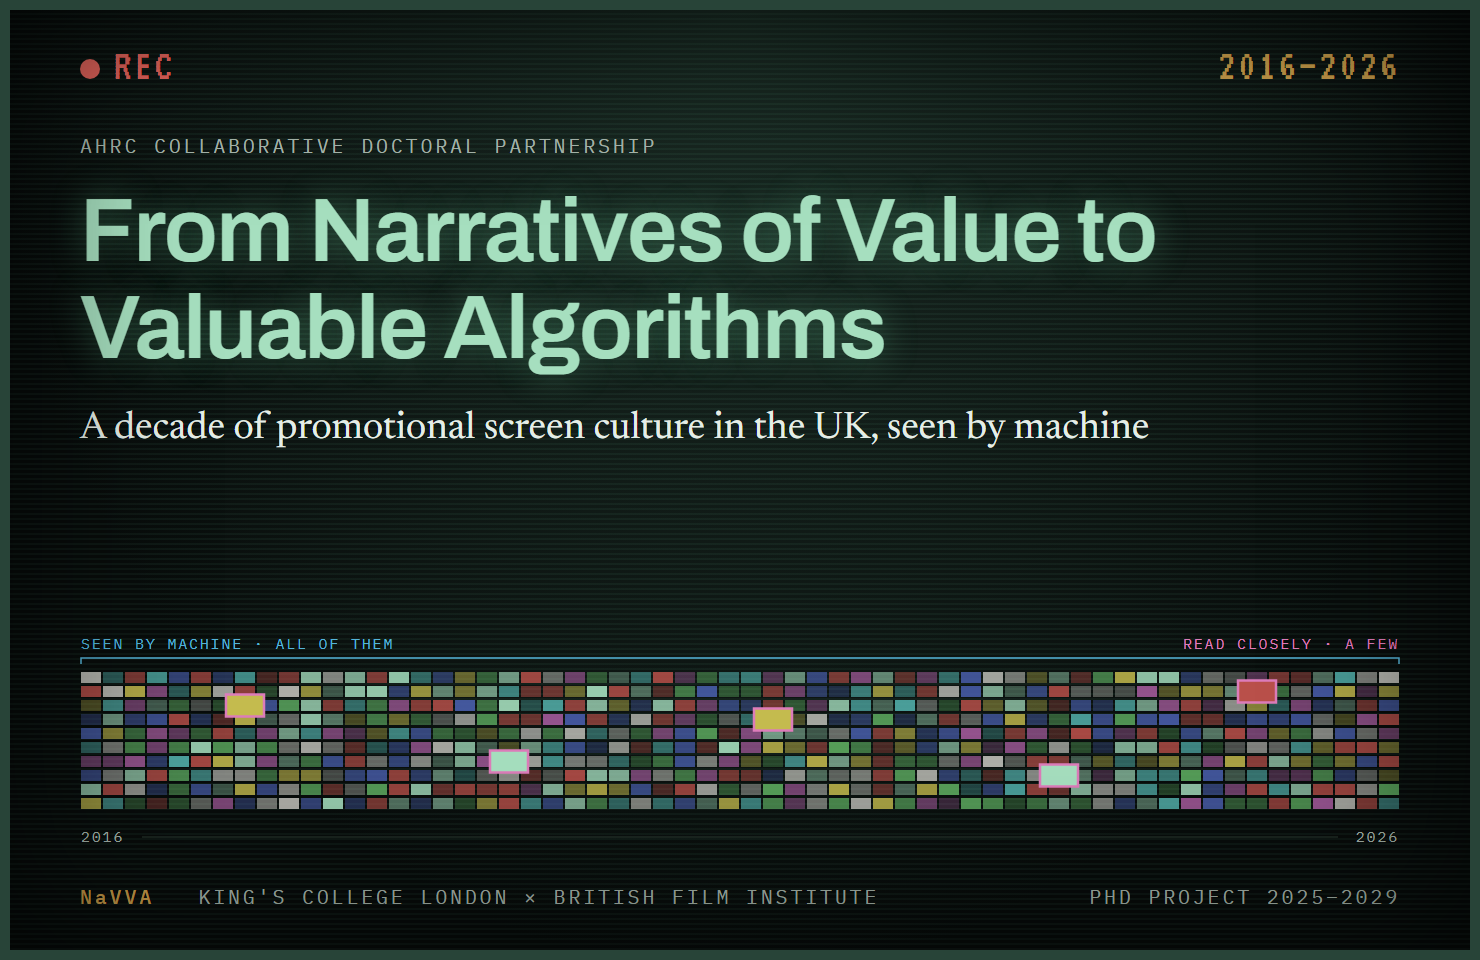
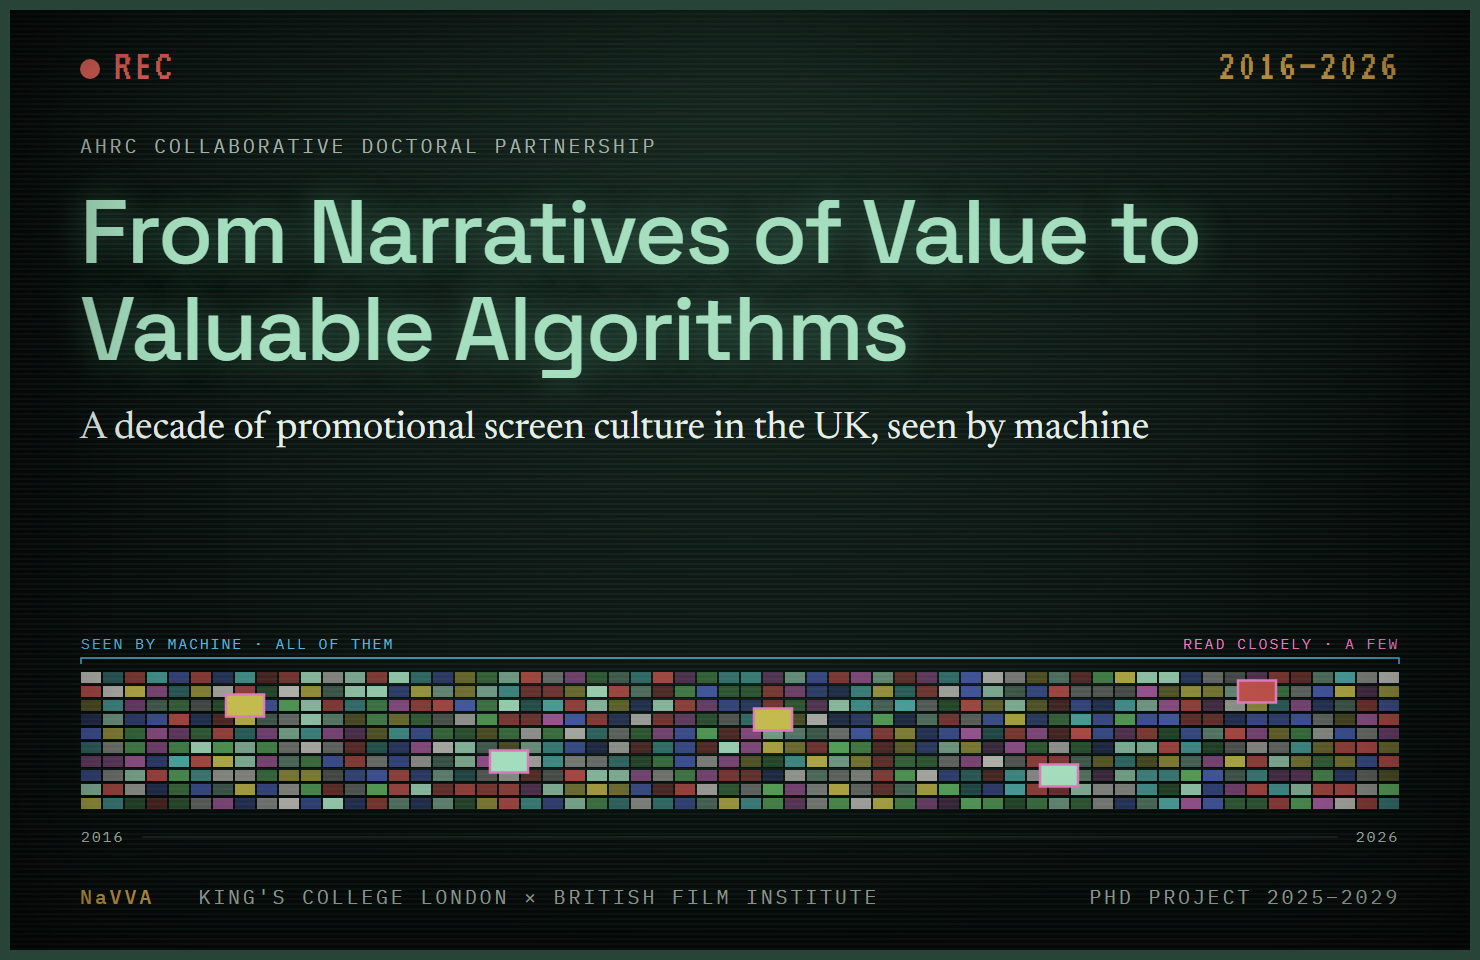
Title in Space Grotesk; People split into doctoral researcher and supervisors

Changed region(s): [[0.0622, 0.1875, 0.8081, 0.2812], [0.0622, 0.3125, 0.6216, 0.4062]]

diff --git a/index.html b/index.html
@@ -12,7 +12,7 @@
 <meta name="twitter:card" content="summary_large_image">
 <link rel="preconnect" href="https://fonts.googleapis.com">
 <link rel="preconnect" href="https://fonts.gstatic.com" crossorigin>
-<link rel="stylesheet" href="https://fonts.googleapis.com/css2?family=Archivo:wght@500..700&family=Newsreader:ital,opsz,wght@0,6..72,400..500;1,6..72,400..500&family=IBM+Plex+Mono:wght@400;500&family=IBM+Plex+Sans:ital,wght@0,400;0,500;0,600;1,400&family=VT323&display=swap">
+<link rel="stylesheet" href="https://fonts.googleapis.com/css2?family=Space+Grotesk:wght@500;600&family=Newsreader:ital,opsz,wght@0,6..72,400..500;1,6..72,400..500&family=IBM+Plex+Mono:wght@400;500&family=IBM+Plex+Sans:ital,wght@0,400;0,500;0,600;1,400&family=VT323&display=swap">
 <style>
   :root {
     /* light: archival dossier */
@@ -90,7 +90,7 @@
   @media (prefers-reduced-motion: reduce) { .rec i { animation: none; } }
   .title { margin: clamp(28px, 6vw, 60px) 22px clamp(20px, 4vw, 44px) var(--title-ml); padding-left: var(--title-pl); border-left: var(--title-rule); }
   .title .label { color: var(--scr-soft); }
-  h1 { font-family: "Archivo", var(--sans); font-weight: 600; font-size: clamp(1.9rem, 5.6vw, 3.4rem); line-height: 1.08; letter-spacing: -0.015em; color: var(--scr-accent); text-shadow: var(--scr-glow); margin: 14px 0 14px; }
+  h1 { font-family: "Space Grotesk", var(--sans); font-weight: 500; font-size: clamp(1.9rem, 5.6vw, 3.4rem); line-height: 1.08; letter-spacing: -0.02em; color: var(--scr-accent); text-shadow: var(--scr-glow); margin: 14px 0 14px; }
   .dek { font-family: var(--serif); font-weight: 400; font-size: clamp(1.05rem, 2.2vw, 1.3rem); color: var(--scr-ink); text-wrap: balance; }
   .strip { padding: 0 22px 22px; }
   .strip svg { width: 100%; height: auto; display: block; overflow: visible; }
@@ -109,6 +109,7 @@
   .note { font-size: 0.88rem; color: var(--ink-soft); max-width: 42rem; margin-top: 16px; }
   .people { display: grid; grid-template-columns: repeat(auto-fit, minmax(min(210px, 100%), 1fr)); gap: 0; border: 1px solid var(--line); border-top: 3px solid var(--accent); background: var(--surface); }
   .person { padding: 14px 16px; border-right: 1px solid var(--line); border-bottom: 1px solid var(--line); margin: 0 -1px -1px 0; }
+  .grp { margin: 20px 0 8px; }
   .person b { display: block; font-weight: 600; }
   .person span { font-size: 0.85rem; color: var(--ink-soft); }
   footer { margin-top: 64px; border-top: 1px solid var(--line); padding-block: 22px 40px; font-size: 0.82rem; color: var(--ink-soft); }
@@ -172,8 +173,12 @@
 
     <section>
       <div class="sec-head"><span class="label">04 · People</span><h2>A partnership between a university department and a national archive</h2></div>
+      <p class="label grp">Doctoral researcher</p>
       <div class="people">
-        <div class="person"><b>Shihan Liu</b><span>PhD researcher, Department of Digital Humanities, King's College London</span></div>
+        <div class="person"><b>Shihan Liu</b><span>Department of Digital Humanities, King's College London</span></div>
+      </div>
+      <p class="label grp">Supervisors</p>
+      <div class="people">
         <div class="person"><b>Dr Daniel Chávez Heras</b><span>First supervisor, Department of Digital Humanities, King's College London</span></div>
         <div class="person"><b>Dr Astrid Van den Bossche</b><span>Second supervisor, Department of Digital Humanities, King's College London</span></div>
         <div class="person"><b>Stephen McConnachie</b><span>Co-supervisor, Head of Data &amp; Digital Preservation, British Film Institute</span></div>

diff --git a/_src/card.html b/_src/card.html
@@ -5,7 +5,7 @@
 <html lang="en">
 <head>
 <meta charset="utf-8">
-<link rel="stylesheet" href="https://fonts.googleapis.com/css2?family=Archivo:wdth,wght@62..125,400..800&family=Newsreader:opsz,wght@6..72,400..500&family=IBM+Plex+Mono:wght@400;500&family=VT323&display=swap">
+<link rel="stylesheet" href="https://fonts.googleapis.com/css2?family=Archivo:wdth,wght@62..125,400..800&family=Newsreader:opsz,wght@6..72,400..500&family=IBM+Plex+Mono:wght@400;500&family=Space+Grotesk:wght@500;600&family=VT323&display=swap">
 <style>
   :root { --bg: #080c0b; --ink: #e5eee7; --soft: #a9b8ae; --title: #a6dfbf; --brass: #d3a54f; --rec: #f06a61; --machine: #55b5d9; --human: #dd7cba; --off: #101713; --offl: #2c3d34;
     --p0: #c9c9c2; --p1: #c4bb4e; --p2: #55b5b0; --p3: #5fae62; --p4: #a65c9e; --p5: #b9504a; --p6: #4a5fae; --p7: #a6dfbf; }
@@ -26,7 +26,7 @@
   .tc { color: var(--brass); }
   .title { position: absolute; top: 132px; left: 80px; right: 80px; }
   .label { font-size: 20px; letter-spacing: 0.14em; text-transform: uppercase; color: var(--soft); }
-  h1 { font: 600 90px/1.08 "Archivo", sans-serif; letter-spacing: -0.015em; color: var(--title); text-shadow: 0 0 34px rgba(116,226,166,0.34); margin: 24px 0 28px; }
+  h1 { font: 500 90px/1.08 "Space Grotesk", sans-serif; letter-spacing: -0.02em; color: var(--title); text-shadow: 0 0 34px rgba(116,226,166,0.34); margin: 24px 0 28px; }
   .dek { font: 400 38px/1.3 "Newsreader", Georgia, serif; color: var(--ink); margin: 0; }
   .b h1 { font: 800 76px/1.06 "Archivo", sans-serif; font-stretch: 112%; text-transform: uppercase; letter-spacing: 0.005em; }
   .b .dek { font: 400 34px/1.3 "Archivo", sans-serif; }
